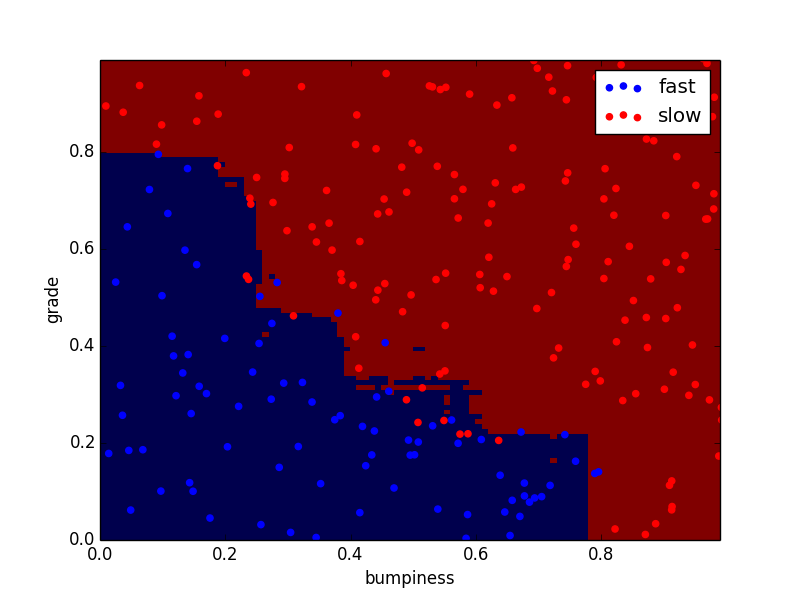
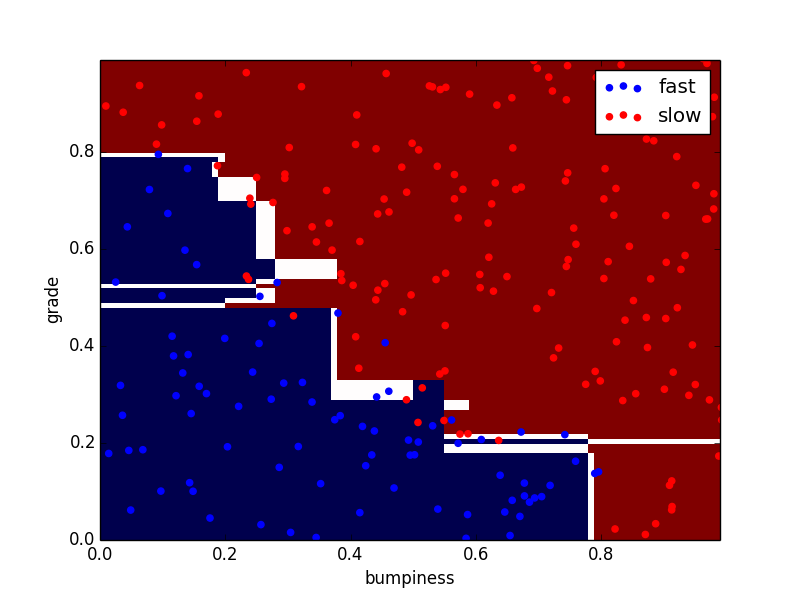
random forest regression

Changed region(s): [[0.3438, 0.51, 0.9062, 0.9], [0.125, 0.24, 0.4375, 0.54], [0.5, 0.57, 0.5312, 0.6]]

diff --git a/random_forest/random_forest.py b/random_forest/random_forest.py
@@ -31,18 +31,28 @@ plt.show()
 
 
 from sklearn.ensemble import RandomForestClassifier
+from sklearn.ensemble import RandomForestRegressor
+
 from sklearn.metrics import accuracy_score
+from sklearn.metrics import r2_score
 
 
-rf = RandomForestClassifier(n_estimators=100, oob_score=True, random_state=123456)
+# Random forest clasifier
+# rf = RandomForestClassifier(n_estimators=100, oob_score=True, random_state=123456)
+# rf.fit(features_train, labels_train)
+# predicted = rf.predict(features_test)
+# accuracy = accuracy_score(labels_test, predicted)
+# print accuracy
 
+# Random forest regression  
+rf = RandomForestRegressor(n_estimators=2, oob_score=True, random_state=2500)
 rf.fit(features_train, labels_train)
 
+predicted_test = rf.predict(features_test)
+test_score = r2_score(labels_test, predicted_test)
 
-predicted = rf.predict(features_test)
-accuracy = accuracy_score(labels_test, predicted)
 
-print accuracy
+print test_score
 
 
 try:
